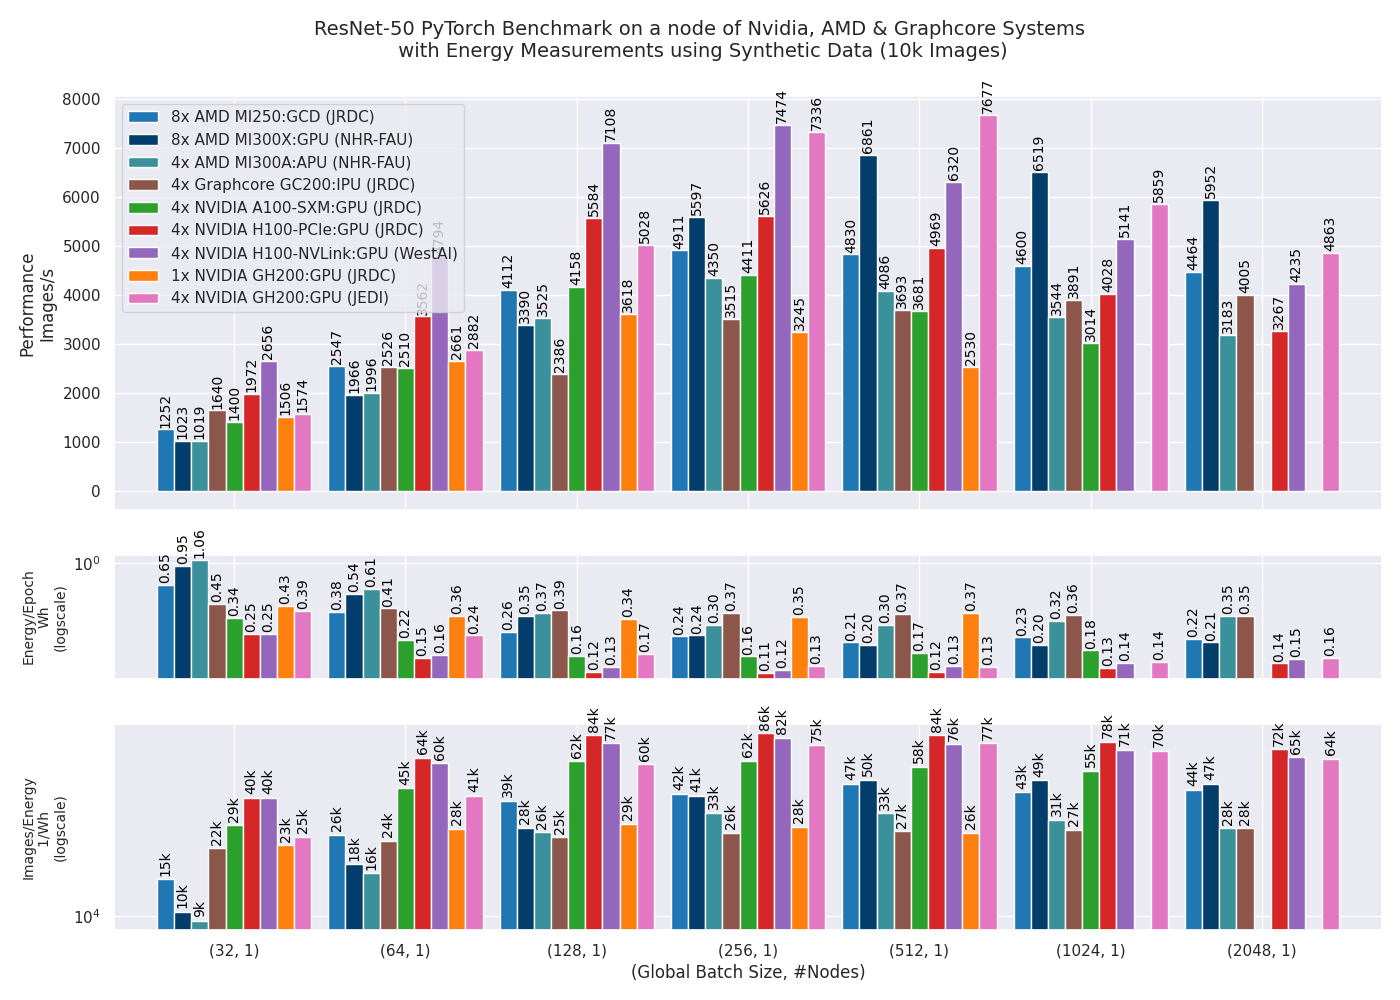
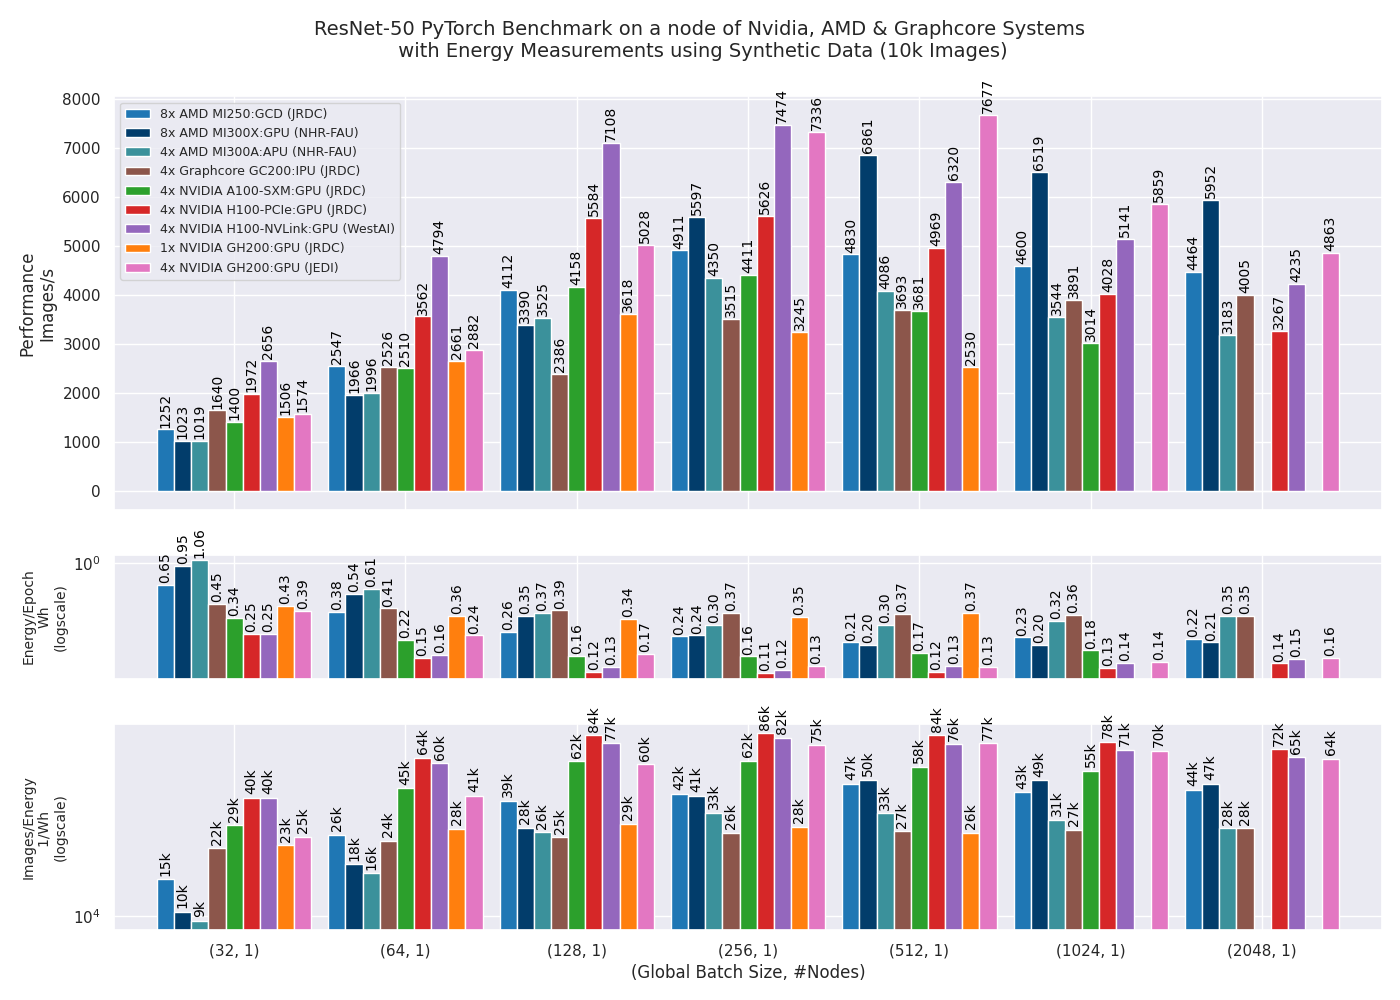
update amd_flash result + jedi to jupiter

Changed region(s): [[0.0921, 0.093, 0.3379, 0.31]]

diff --git a/image_classification/image_classification_torch.py b/image_classification/image_classification_torch.py
@@ -341,7 +341,7 @@ def main():
       from jpwr.gpu.pynvml import power
       method_list.append(power())
       gpu_name = "NVIDIA"
-    if os.getenv("ACCELERATOR") in ["GH200", "JEDI"]:
+    if os.getenv("ACCELERATOR") in ["GH200", "JUPITER"]:
       from jpwr.sys.gh import power
       method_list.append(power())
     

diff --git a/aux/combine_energy.py b/aux/combine_energy.py
@@ -23,7 +23,7 @@ def main():
 
     args = parse_args()
 
-    dfs = [pd.read_csv(csv_file).T.reset_index(drop=True) for csv_file in args.files]
+    dfs = [pd.read_csv(csv_file, header=None).T.reset_index(drop=True) for csv_file in args.files]
 
 
     for df in dfs:

diff --git a/README.md b/README.md
@@ -1,13 +1,12 @@
-# CARAML 
+# CARAML
 
 **C**ompact **A**utomated **R**eproducible **A**ssessment of **M**achine **L**earning (**CARAML**) is a benchmark framework designed to assess AI workloads on novel accelerators. It has been developed and tested extensively on systems at the Jülich Supercomputing Centre (JSC).
 
-CARAML leverages [JUBE](https://apps.fz-juelich.de/jsc/jube/docu/index.html), a scripting-based framework for creating benchmark sets, running them across different systems, and evaluating results. Additionally, it includes power/energy measurements through the [jpwr](https://github.com/FZJ-JSC/jpwr) tool.
+CARAML leverages [JUBE](https://github.com/FZJ-JSC/JUBE), a scripting-based framework for creating benchmark sets, running them across different systems, and evaluating results. Additionally, it includes power/energy measurements through the [jpwr](https://github.com/FZJ-JSC/jpwr) tool.
 
 Paper: [Arxiv](https://arxiv.org/abs/2409.12994), [IEEE](https://ieeexplore.ieee.org/abstract/document/10820809)
 
-
-## Tested Accelerators:
+# Tested Accelerators
 
 CARAML has been tested on the [JURECA-DC EVALUATION PLATFORM](https://apps.fz-juelich.de/jsc/hps/jureca/evaluation-platform-overview.html), [JURECA-DC](https://apps.fz-juelich.de/jsc/hps/jureca/configuration.html), [JEDI](https://apps.fz-juelich.de/jsc/hps/jedi/index.html#), [WEST-AI Nodes](https://westai.de/services/hardware/) and [NHR-FAU](https://doc.nhr.fau.de/clusters/testcluster/). These include the accelerators: 
 
@@ -18,7 +17,7 @@ CARAML has been tested on the [JURECA-DC EVALUATION PLATFORM](https://apps.fz-ju
 | NVIDIA Hopper node (PCIe)                         | 4 × H100 (80GB HBM2e) GPUs                        | `H100`    |
 | NVIDIA Hopper node (NVLink)                       | 4 × H100 (94GB HBM2e) GPUs                        | `WAIH100` |
 | NVIDIA Grace-Hopper chip                          | 1 × GH200 (480GB LPDDR5X, 96GB HBM3) GPU          | `GH200`   |
-| NVIDIA Grace-Hopper node                          | 4 × GH200 (120GB LPDDR5X, 96GB HBM3) GPUs         | `JEDI`    |
+| NVIDIA Grace-Hopper node                          | 4 × GH200 (120GB LPDDR5X, 96GB HBM3) GPUs         | `JUPITER` |
 | AMD MI300X node                                   | 8 × MI300X (192GB HBM3) GPUs                      | `MI300X`  |
 | AMD MI300A node                                   | 4 × MI300A (128GB HBM3) APUs                      | `MI300A`  |
 | AMD MI200 node                                    | 4 × MI250 (128GB HBM2e) GPUs                      | `MI250`   |
@@ -45,15 +44,15 @@ Performance is measured in `tokens/s` and energy is recorded in `Wh`.
 
 # Requirements
 
-To run the benchmarks, you must install **JUBE**. Follow the [JUBE Installation Documentation](https://apps.fz-juelich.de/jsc/jube/docu/tutorial.html#installation) for setup instructions. The benchmarks are deployed using [Apptainer](https://apptainer.org/) containers and executed using **SLURM** on the tested accelerators.
+To run the benchmarks, install **JUBE** following [JUBE Installation Documentation](https://apps.fz-juelich.de/jsc/jube/docu/tutorial.html#installation) setup instructions. The benchmarks are deployed using [Apptainer](https://apptainer.org/) containers and executed using **SLURM** on the tested accelerators.
 
-### Dataset
+## Dataset
 
 - **Image Classification**: Synthetic data is generated on the host machine for benchmarking. The IPU tag `synthetic` additionally allows for the generation of synthetic data directly on the IPU.
   
 - **LLM Training**: A subset of the [OSCAR dataset](https://huggingface.co/bigscience/misc-test-data/resolve/main/stas/oscar-1GB.jsonl.xz) (790 samples, ~10 MB) is pre-processed using [GPT-2 tokenizers](./llm_training/aux/tokenizers/). This data is provided in the `llm_data` directory.
 
-# Execution 
+# Execution
 
 - Clone the repository and navigate into it:
 
@@ -73,7 +72,7 @@ cd CARAML
    - `GC200` (for Graphcore)
 > **Note**: The `container` tag should ideally be used only once at the beginning to pull and set up the container.
 
-###  Image Classification (Training)
+## Image Classification (Training)
 
 - To run the benchmark with defined configurations do
     ```bash
@@ -92,7 +91,7 @@ cd CARAML
   jube result image_classification/image_classification_torch_benchmark_run -i last
    ```
 
-### LLM Training
+## LLM Training
 
 - To run the benchmark with defined configurations for `800M` GPT model with OSCAR data do:
     ```bash
@@ -110,7 +109,6 @@ cd CARAML
     ```bash
     jube continue llm_training/llm_benchmark_{nvidia_amd,ipu}_run -i last
    ```
- 
 - To generate result do:
    ```bash
    jube result llm_training/llm_benchmark_{nvidia_amd,ipu}_run -i last
@@ -119,7 +117,7 @@ cd CARAML
 # Results
 
 ![Image Classsification: ResNet50](./assets/resnet_torch_all_9.png)
-![LLM Training Benchmark](./assets/LLM_800M_all_8.png)
+![LLM Training Benchmark](./assets/llm_800M_all_8.png)
  
 # JSC Specific Fixes
 In order to use PyTorch `torch run` API on JSC systems [fixed_torch_run.py](./llm_training/aux/fixed_torch_run.py) fix is required. The fix solves the issue defined [here](https://github.com/pytorch/pytorch/pull/81691).
